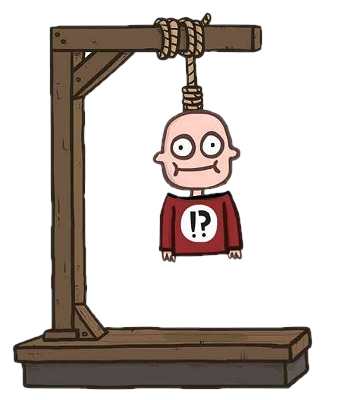
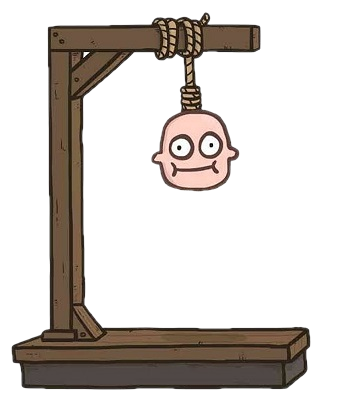
stuff added and fixed

diff --git a/galgje.js b/galgje.js
@@ -1,3 +1,5 @@
+window.onload = wordFetch();
+
 const hangmanImagesStages = [
     `
      ________
@@ -78,8 +80,10 @@ const hangmanWin = [
 
 // global variables
 let usedLetters = [];
+console.log(usedLetters);
 let wordToGuess;
 let lettersCorrect;
+let tries = 0;
 
 function wordFetch() {
     fetch("Woordlijst.txt")
@@ -127,7 +131,7 @@ function gameInput() {
     if (usedLetters.includes(input)) {
         document.getElementById("gameStatus").innerHTML = "Deze letter is al gebruikt.";
     } else if (input == wordToGuess) {
-        document.getElementById("gameStatus").innerHTML = "Gefeliciteerd, je hebt het woord geraden!";
+        document.getElementById("gameStatus").innerHTML = "Gefeliciteerd, je hebt gewonnen door het woord te raden!";
         restartGame();
     } else if (input == '') {
         document.getElementById("gameStatus").innerHTML = "Er is niks getypt.";
@@ -141,14 +145,30 @@ function gameInput() {
         document.getElementById("gameStatus").innerHTML = "Dat woord is te lang.";
     } else if (input.length >= 3 && input.length !== wordLength) {
         document.getElementById("gameStatus").innerHTML = "Dat woord is te kort.";
-    } else if (input.length >= 2) {
-        document.getElementById("gameStatus").innerHTML = "Typ alleen 1 letter of raad gelijk het woord.";
+    } else if (input.length <= wordLength && input.length >= 2) {
+        document.getElementById("gameStatus").innerHTML = "Typ alleen 1 letter of raad gelijk het woord."
+        // } else if {
+        //     document.getElementById("gameStatus").innerHTML = "Juist."
     } else {
         usedLettersArray();
         letterInputOnScreen()
+        console.log(usedLetters);
     }
     document.getElementById("inputHangman").value = ''; //Maak tekstvak leeg na input.
-    letterInputOnScreen()
+}
+
+function gameOver() {
+    while (i > tries) {
+        `text = + ${"Je hebt nog" + i + "pogingen"} `;
+    }
+    + 1; i++;
+}
+
+function checkEnterPress(e) {
+    console.log("Yes", e.keyCode)
+    if (e.keyCode == 13) {
+        gameInput();
+    }
 }
 
 function isLetter(input) {
@@ -156,10 +176,75 @@ function isLetter(input) {
 }
 
 function usedLettersArray() {
-    let addLetters = usedLetters.push(input);
-    `document.getElementById("usedLetterDisplay").innerHTML = ${usedLetters.join}`;
+    console.log(usedLetters);
+    let addLetters = usedLetters.push(input); // IS NOT AN ARRAY? IT COUNTS
+    console.log(usedLetters);
+    console.log(addLetters);
+    // let stringArray = addLetters.join(" ");
+    // console.log(stringArray);
+    document.getElementById("usedLetterDisplay").innerHTML = usedLetters; // WHY DOES USEDLETTERS WORK HERE?
+    // `document.getElementById("usedLetterDisplay").innerHTML = ${usedLetters.join} `;
 }
 
 function restartGame() {
     console.log("Empty All")
+}
+
+function checkKeyPress(e) {
+    console.log("Yes", e.keyCode)
+    if (e.keyCode == 81) {
+        gameInput();
+    } else if (e.keyCode == 87) {
+        gameInput();
+    } else if (e.keyCode == 69) {
+        gameInput();
+    } else if (e.keyCode == 82) {
+        gameInput();
+    } else if (e.keyCode == 84) {
+        gameInput();
+    } else if (e.keyCode == 89) {
+        gameInput();
+    } else if (e.keyCode == 85) {
+        gameInput();
+    } else if (e.keyCode == 73) {
+        gameInput();
+    } else if (e.keyCode == 79) {
+        gameInput();
+    } else if (e.keyCode == 80) {
+        gameInput();
+    } else if (e.keyCode == 65) {
+        gameInput();
+    } else if (e.keyCode == 83) {
+        gameInput();
+    } else if (e.keyCode == 68) {
+        gameInput();
+    } else if (e.keyCode == 70) {
+        gameInput();
+    } else if (e.keyCode == 71) {
+        gameInput();
+    } else if (e.keyCode == 72) {
+        gameInput();
+    } else if (e.keyCode == 74) {
+        gameInput();
+    } else if (e.keyCode == 75) {
+        gameInput();
+    } else if (e.keyCode == 76) {
+        gameInput();
+    } else if (e.keyCode == 90) {
+        gameInput();
+    } else if (e.keyCode == 88) {
+        gameInput();
+    } else if (e.keyCode == 67) {
+        gameInput();
+    } else if (e.keyCode == 86) {
+        gameInput();
+    } else if (e.keyCode == 66) {
+        gameInput();
+    } else if (e.keyCode == 78) {
+        gameInput();
+    } else if (e.keyCode == 77) {
+        gameInput();
+    } else {
+        (console.log("Virtual Keyboard Error"))
+    }
 }

diff --git a/index.html b/index.html
@@ -8,14 +8,49 @@
         <script src="galgje.js" /></script>
     </head>
         <h1 class="text">Galgje</h1>
-        <div><button class="button shadow" onclick="wordFetch()">Maak een nieuw woord</button></div>
-        <div class="size"><section class="text" id="secretWord"></section></div>
-        <div><img src="images/Stage0.png" alt=""></div>
+        <!-- <div><button class="button shadow" onclick="wordFetch()">Kies een nieuw woord</button></div> -->
+        <div><img src="images/Stage1.png" alt=""></div>
         <div class="size"><section class="text" id="usedLetterDisplay">.</section></div>
         <div class="size"><section class="text" id="wordDisplay">.</section></div>
         <div class="size"><section class="text" id="gameStatus">.</section></div>
-        <div><input class="input shadow" id="inputHangman" type="input" autocomplete="off" placeholder="Kies een letter of raad direct het woord.">
+        <div><input class="input shadow" id="inputHangman" type="input" onkeyup="checkEnterPress(event)" autocomplete="off" placeholder="Kies een letter of raad direct het woord.">
         <br>
         <div><button class="button shadow" onclick="gameInput()" role="button" id="gameInput">Raden</button></div>
+        <div class="size"><section class="text" id="secretWord"></section></div>
+    
+        <div class="keyboard-wrapper">    
+            <div class="keyboard-top">
+                <div><button class="keyboard-button" id="Q">Q</button></div>
+                <div><button class="keyboard-button" id="W">W</button></div>
+                <div><button class="keyboard-button" id="E">E</button></div>
+                <div><button class="keyboard-button" id="R">R</button></div>
+                <div><button class="keyboard-button" id="T">T</button></div>
+                <div><button class="keyboard-button" id="Y">Y</button></div>
+                <div><button class="keyboard-button" id="U">U</button></div>
+                <div><button class="keyboard-button" id="I">I</button></div>
+                <div><button class="keyboard-button" id="O">O</button></div>
+                <div><button class="keyboard-button" id="P">P</button></div>
+            </div>
+            <div class="keyboard-middle">
+                <div><button class="keyboard-button" id="A">A</button></div>
+                <div><button class="keyboard-button" id="S">S</button></div>
+                <div><button class="keyboard-button" id="D">D</button></div>
+                <div><button class="keyboard-button" id="F">F</button></div>
+                <div><button class="keyboard-button" id="G">G</button></div>
+                <div><button class="keyboard-button" id="H">H</button></div>
+                <div><button class="keyboard-button" id="J">J</button></div>
+                <div><button class="keyboard-button" id="K">K</button></div>
+                <div><button class="keyboard-button" id="L">L</button></div>
+            </div>
+            <div class="keyboard-bottom">
+                <div><button class="keyboard-button" id="Z">Z</button></div>
+                <div><button class="keyboard-button" id="X">X</button></div>
+                <div><button class="keyboard-button" id="C">C</button></div>
+                <div><button class="keyboard-button" id="V">V</button></div>
+                <div><button class="keyboard-button" id="B">B</button></div>
+                <div><button class="keyboard-button" id="N">N</button></div>
+                <div><button class="keyboard-button" id="M">M</button></div>
+            </div>
+        </div>
     </body>
 </html>

diff --git a/galgje2.js b/galgje2.js
@@ -80,7 +80,6 @@ const hangmanWin = [
 
 // global variables
 let usedLetters = [];
-console.log(usedLetters);
 let wordToGuess;
 let lettersCorrect;
 let tries = 0;
@@ -152,7 +151,6 @@ function gameInput() {
     } else {
         usedLettersArray();
         letterInputOnScreen()
-        console.log(usedLetters);
     }
     document.getElementById("inputHangman").value = ''; //Maak tekstvak leeg na input.
 }
@@ -164,7 +162,8 @@ function gameOver() {
     + 1; i++;
 }
 
-function checkEnterPress(e) {
+
+function checkKeyPress(e) {
     console.log("Yes", e.keyCode)
     if (e.keyCode == 13) {
         gameInput();
@@ -176,75 +175,10 @@ function isLetter(input) {
 }
 
 function usedLettersArray() {
-    console.log(usedLetters);
-    let addLetters = usedLetters.push(input); // IS NOT AN ARRAY? IT COUNTS
-    console.log(usedLetters);
-    console.log(addLetters);
-    // let stringArray = addLetters.join(" ");
-    // console.log(stringArray);
-    document.getElementById("usedLetterDisplay").innerHTML = usedLetters; // WHY DOES USEDLETTERS WORK HERE?
-    // `document.getElementById("usedLetterDisplay").innerHTML = ${usedLetters.join} `;
+    let addLetters = usedLetters.push(input);
+    `document.getElementById("usedLetterDisplay").innerHTML = ${usedLetters.join} `;
 }
 
 function restartGame() {
     console.log("Empty All")
-}
-
-function checkKeyPress(e) {
-    console.log("Yes", e.keyCode)
-    if (e.keyCode == 81) {
-        gameInput();
-    } else if (e.keyCode == 87) {
-        gameInput();
-    } else if (e.keyCode == 69) {
-        gameInput();
-    } else if (e.keyCode == 82) {
-        gameInput();
-    } else if (e.keyCode == 84) {
-        gameInput();
-    } else if (e.keyCode == 89) {
-        gameInput();
-    } else if (e.keyCode == 85) {
-        gameInput();
-    } else if (e.keyCode == 73) {
-        gameInput();
-    } else if (e.keyCode == 79) {
-        gameInput();
-    } else if (e.keyCode == 80) {
-        gameInput();
-    } else if (e.keyCode == 65) {
-        gameInput();
-    } else if (e.keyCode == 83) {
-        gameInput();
-    } else if (e.keyCode == 68) {
-        gameInput();
-    } else if (e.keyCode == 70) {
-        gameInput();
-    } else if (e.keyCode == 71) {
-        gameInput();
-    } else if (e.keyCode == 72) {
-        gameInput();
-    } else if (e.keyCode == 74) {
-        gameInput();
-    } else if (e.keyCode == 75) {
-        gameInput();
-    } else if (e.keyCode == 76) {
-        gameInput();
-    } else if (e.keyCode == 90) {
-        gameInput();
-    } else if (e.keyCode == 88) {
-        gameInput();
-    } else if (e.keyCode == 67) {
-        gameInput();
-    } else if (e.keyCode == 86) {
-        gameInput();
-    } else if (e.keyCode == 66) {
-        gameInput();
-    } else if (e.keyCode == 78) {
-        gameInput();
-    } else if (e.keyCode == 77) {
-        gameInput();
-    } else {
-        (console.log("Virtual Keyboard Error"))
-    }
 }

diff --git a/galgje.css b/galgje.css
@@ -82,8 +82,9 @@ div {
     width: 300px;
     text-align: center;
     &:focus {
-		border-top: .1em solid rgb(100, 101, 136);
-	    border-bottom: .1em solid rgb(100, 101, 136);
+		border-top: .2em solid rgb(100, 101, 136);
+	    border-bottom: .2em solid rgb(100, 101, 136);
+		padding: .8em .8em;
 	}
 }
 
@@ -100,7 +101,7 @@ div {
     border-top: .3em solid rgb(255, 255, 255);
 	border-bottom: .3em solid rgb(255, 255, 255);
 	background: hsl(0 0 0/0);
-	padding: .85em 1.5em;
+	padding: .75em 1em;
 	color: #ffffff;
 	border-radius: 1em;
 	transition: 0.5s;
@@ -109,5 +110,53 @@ div {
 	    border-bottom: .3em solid rgb(100, 101, 136);;
         border-top: .3em solid rgb(100, 101, 136);
 	    border-bottom: .3em solid rgb(100, 101, 136);
+		padding: .85em 1.5em;
 	}
+}
+
+.keyboard-wrapper {
+	display: flex;
+}
+
+.keyboard-top {
+	display: flex;
+	flex-direction: row;
+}
+
+.keyboard-middle {
+	display: flex;
+	flex-direction: row;
+}
+
+.keyboard-bottom {
+	display: flex;
+	flex-direction: row;
+}
+
+.keyboard-button {
+	appearance: none;
+	font-size: 20px;
+    font-weight: 200;
+    border: none;
+    border-top: .2em solid rgb(255, 255, 255);
+	border-bottom: .2em solid rgb(255, 255, 255);
+	background: hsl(0 0 0/0);
+	padding: .75em 1em;
+	margin: .2em;
+	width: 3em;
+	text-align: center;
+	color: #ffffff;
+	border-radius: 0.75em;
+	transition: 0.5s;
+	&:hover {
+		color: rgb(255, 255, 255);
+	    border-bottom: .25em solid rgb(100, 101, 136);;
+        border-top: .25em solid rgb(100, 101, 136);
+	    border-bottom: .25em solid rgb(100, 101, 136);
+		padding: .70em 1em;
+	}
+}
+
+.keyboard-placeholder {
+	visibility: hidden;
 }
